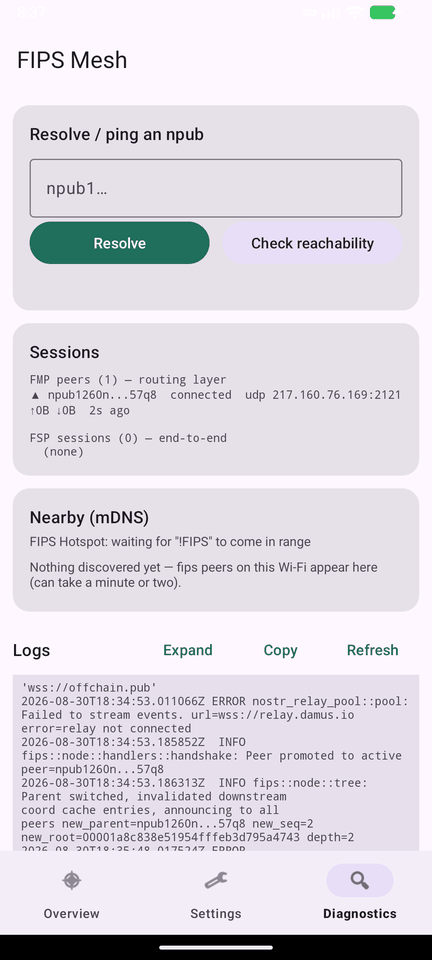
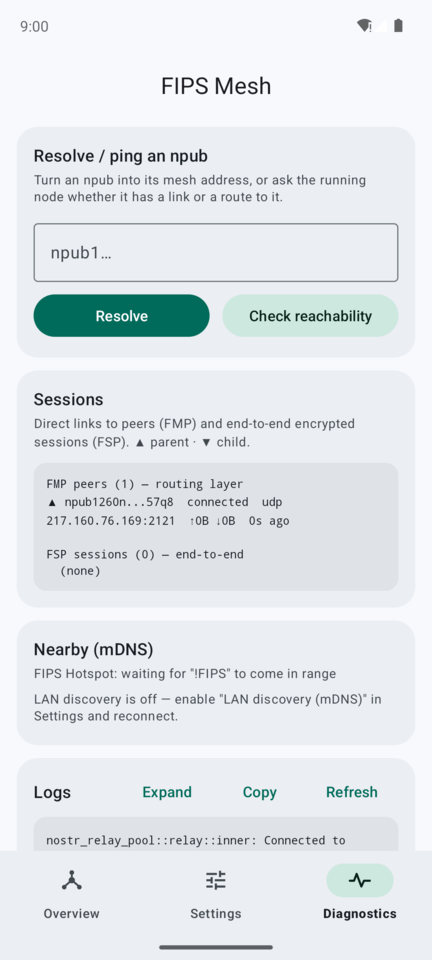
README: retake the screenshots for the new UI
The four screenshots showed the old Connect/Disconnect Overview, the flat
Settings list and the picker with its Save button. Retaken on the
fips-firstrun emulator (API 34, Play Store image) joined to the live mesh,
in the same format as before (432x960, palette PNG), plus two new ones for
what did not exist then: dark mode and the relay editor.

Diagnostics was captured with LAN discovery off: with it on, the Sessions
and Nearby cards showed a node on the local network (its LAN address and
shortened npub), which has no business in a public README. Only the public
bootstrap server is visible, as in the old shot.

Text: the split-tunnel entry says a changed selection is applied live, the
"only two cases restart the node" sentence is now about network events
(a mesh-app or relay change restarts it too, once, on request), and relay
editing gets an entry.

diff --git a/README.md b/README.md
@@ -11,6 +11,10 @@ tunnel with a userspace forwarder).
 |---|---|---|---|
 | ![Overview: connected to the mesh](docs/screenshots/overview.png) | ![Settings](docs/screenshots/settings.png) | ![Diagnostics](docs/screenshots/diagnostics.png) | ![Per-app split tunnel](docs/screenshots/app-picker.png) |
 
+| Dark mode | Nostr relays |
+|---|---|
+| ![Overview in dark mode](docs/screenshots/overview-dark.png) | ![Add and remove Nostr relays](docs/screenshots/relays.png) |
+
 <sub>Captured on the x86_64 emulator, joined to the live public mesh.</sub>
 
 ## Features
@@ -22,7 +26,8 @@ usable on a device you also use for everything else.
   the mesh **and** normal internet — clearnet traffic rides a userspace
   forwarder on sockets protected from the tunnel — and every other app on the
   phone is untouched. With nothing selected the tunnel captures only fips2go
-  itself, so it does nothing.
+  itself, so it does nothing. Change the selection while connected and the
+  mesh reconnects for a moment to apply it — no manual reconnect.
 - **`.fips` names just resolve.** Covered apps' DNS is intercepted in-process:
   `.fips` names are answered by the built-in resolver, everything else goes to
   your normal upstreams. A `.fips` hostname works in the browser with nothing
@@ -49,9 +54,15 @@ usable on a device you also use for everything else.
   reporting the new network (the service pokes fips's medium-change detector
   the moment the callback fires). No restart, no manual reconnect — including
   on IPv4-only CGNAT mobile networks, where extra probe routes keep AAAA
-  lookups (and so `.fips` names) resolving. Only two cases still restart the
-  node: an underlay whose IPv6 status differs from the last one, and a FIPS
-  Hotspot joining or leaving.
+  lookups (and so `.fips` names) resolving. Only two network events still
+  restart the node: an underlay whose IPv6 status differs from the last one,
+  and a FIPS Hotspot joining or leaving. (Changing the mesh apps or the relay
+  list while connected restarts it too, once, because you asked.)
+- **Your choice of Nostr relays.** The node publishes its address to, and looks
+  peers up on, fips's three default relays out of the box. Add your own or
+  remove any of them from Overview; addresses are validated before they are
+  saved, because one the relay client rejects would take the whole rendezvous
+  down with it.
 - **Diagnostics that answer the real questions.** Resolve or ping an npub,
   live peer sessions with byte counts, nearby mDNS sightings, which Nostr
   relays the node is actually connected to, and a log viewer you can expand
